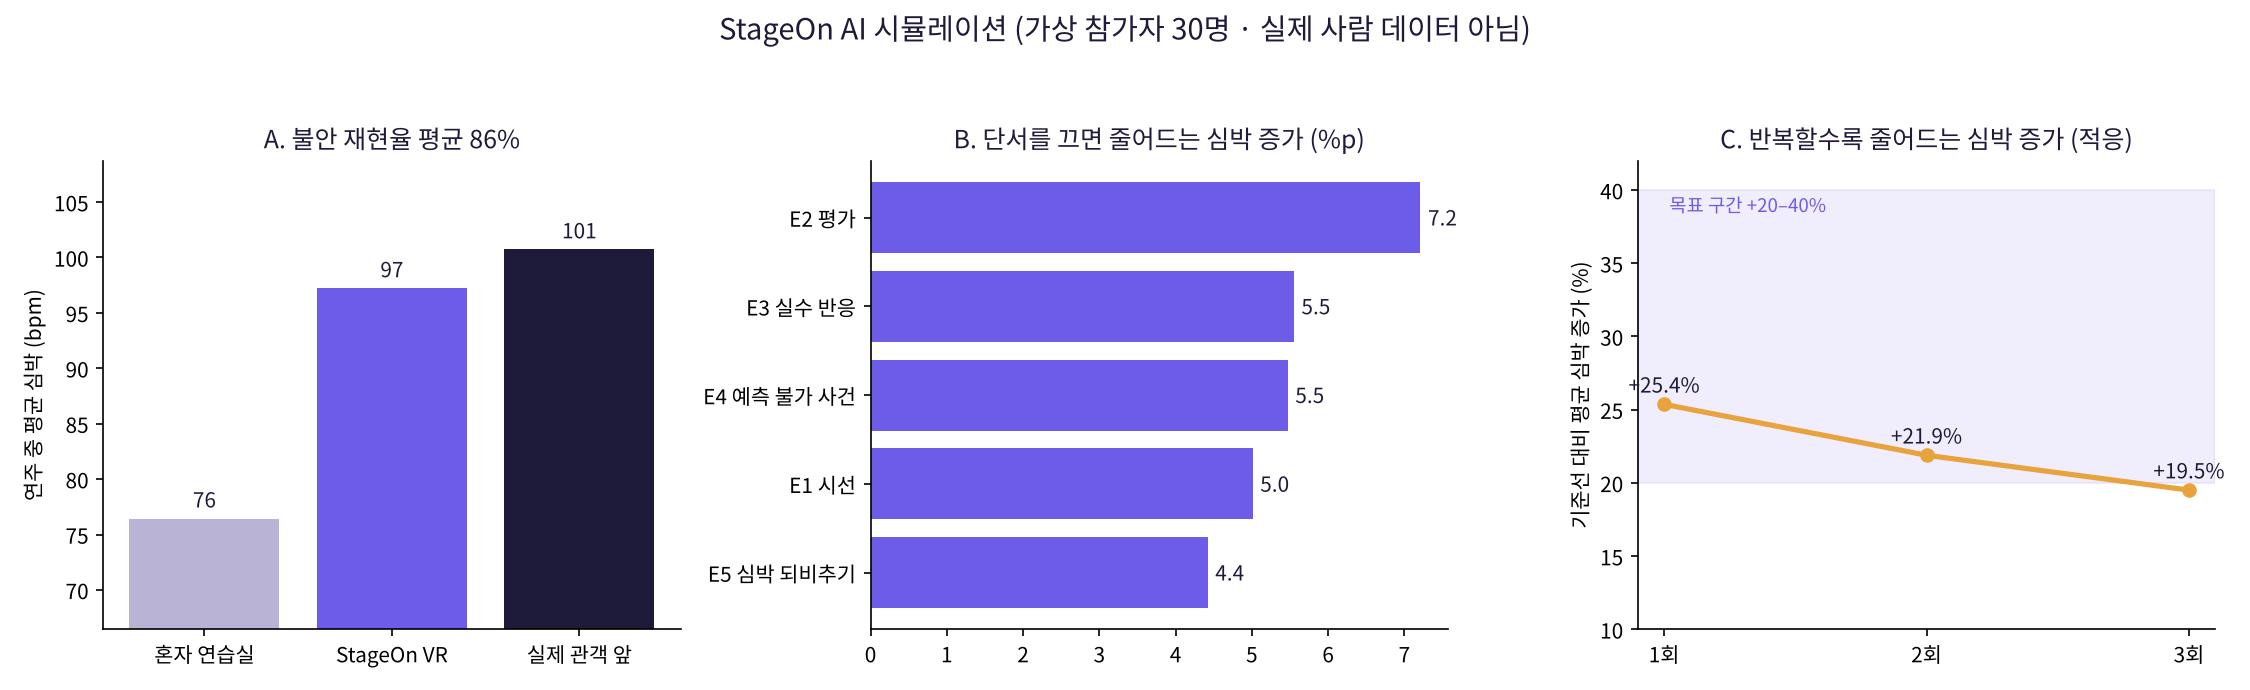
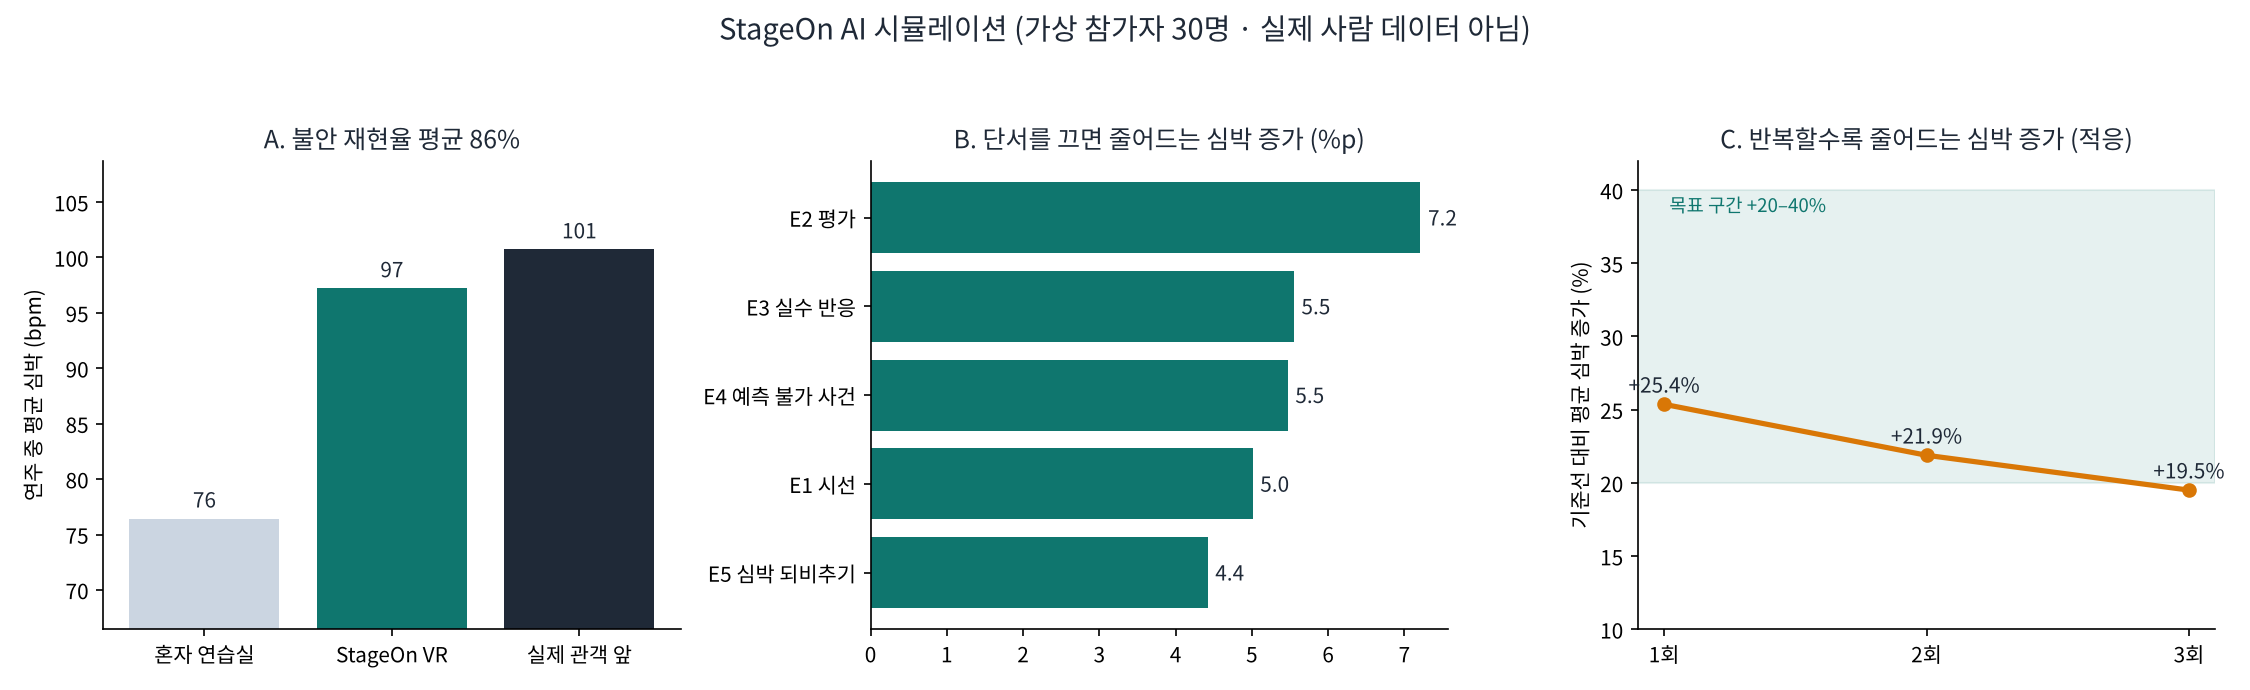
시뮬레이션 그림을 청록 색으로

diff --git a/sim/plot.py b/sim/plot.py
@@ -12,7 +12,7 @@ plt.rcParams["font.family"] = "Noto Sans CJK JP"
 plt.rcParams["axes.unicode_minus"] = False
 
 r = json.load(open("sim/out/results.json", encoding="utf-8"))
-NAVY, PURPLE, GOLD, GRAY = "#1E1B3A", "#6C5CE7", "#E8A33D", "#B9B4D6"
+NAVY, PURPLE, GOLD, GRAY = "#1F2937", "#0F766E", "#D97706", "#CBD5E1"   # 진한 회색 · 청록 · 주황 · 연회색
 
 fig, ax = plt.subplots(1, 3, figsize=(15, 4.6))
 fig.suptitle(f"StageOn AI 시뮬레이션 (가상 참가자 {r['participants']}명 · 실제 사람 데이터 아님)", fontsize=14, color=NAVY)
